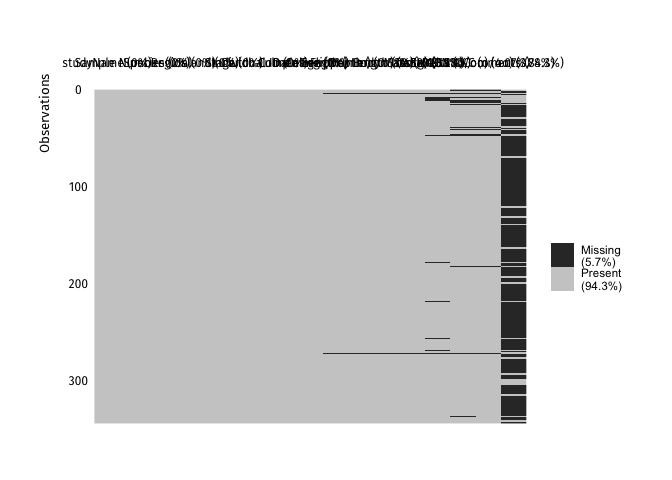
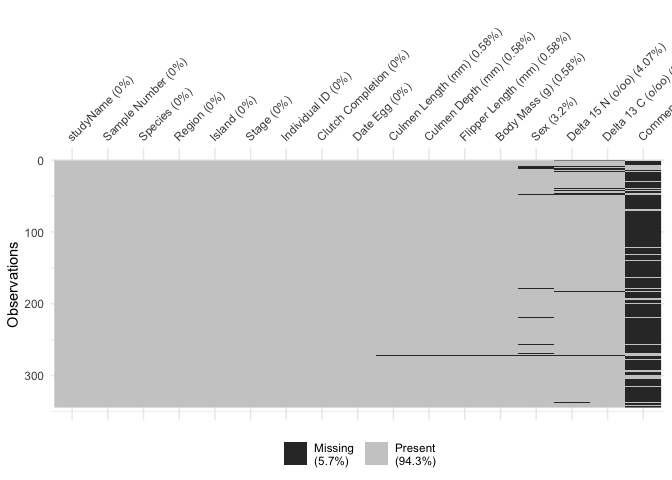
Fix errors

diff --git a/1_data_cleaning_R.md b/1_data_cleaning_R.md
@@ -1,7 +1,3 @@
-Data Cleaning in R
-================
-Octavio Medina
-2021-01-28
 
 # Data importing and cleaning
 
@@ -91,8 +87,7 @@ Isn’t this cool? There’s also a function to see the degree of
 missingness for each of our variables. It’s called `vis_miss`:
 
 ``` r
-vis_miss(penguins_raw) +
-  theme_42()
+vis_miss(penguins_raw) 
 ```
 
 ![](1_data_cleaning_R_files/figure-gfm/unnamed-chunk-4-1.png)<!-- -->
